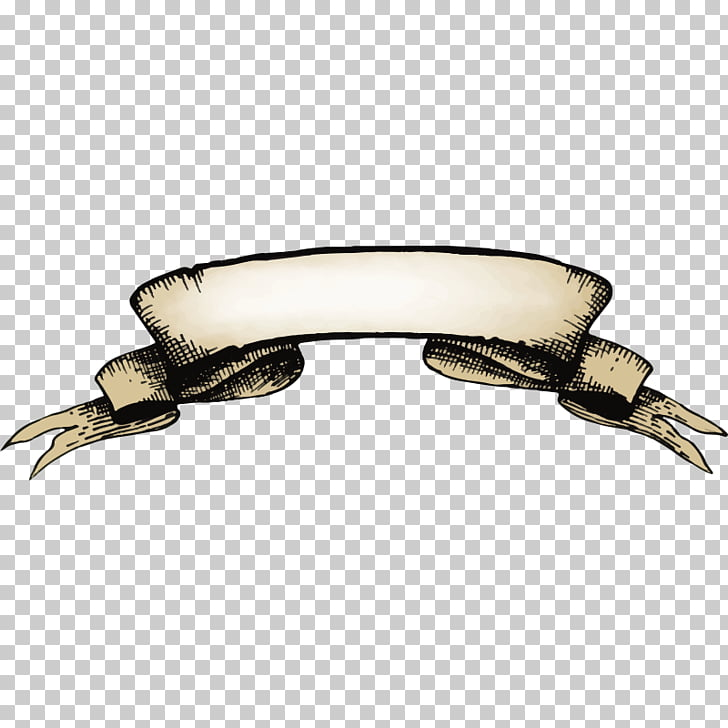
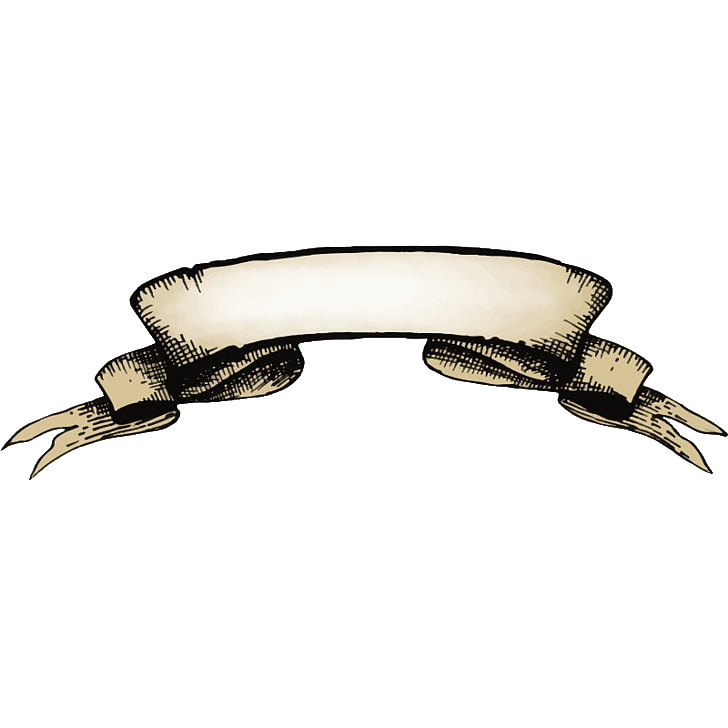
modificaciones en la pagina de rangos

diff --git a/css/style_rangos.css b/css/style_rangos.css
@@ -22,50 +22,11 @@ body{
 
 img{
     background-color: transparent;
-    background-size: 100% 50%;
-    width: 40%;
+    width: 50%;
     display: block;
-    margin-left: 31%;
-    border-radius: 8%;
-}
-
-h1{
-    font-size: 30px;
-    text-align: center;
-    margin-bottom: 20px;
-    margin-top: 20px;
-    line-height: 30px;
-}
-
-p{
-    margin: 30px;
-    margin-left: 15%;
-    margin-right: 10%;
-    border: black 2px solid;
-    text-align: left;
-    padding: 20px;
-    box-shadow: 3px 3px 3px black;
-    margin-bottom: 20px;
-    width: fit-content;
-
-}
-
-.normas{
-    text-decoration: none;
-}
-
-.contenido{
-    overflow: initial;
-    line-height: 30px;
-}
-.lateral{
-    float: left;
-    vertical-align: middle;
-    margin: 5px;
-    margin-right: 50px;
     position: relative;
-    z-index: 1;
-    width: 28%;
+    margin-left: 25%;
+    align-content: center;
 }
 
 nav{
@@ -75,7 +36,8 @@ nav{
     z-index: 10;
     float: left;
     margin-bottom: 40px;
- }
+}
+
  #navegador ul{
      list-style-type: none;
      text-align: center;
@@ -91,26 +53,47 @@ nav ul li{
     padding: 20px;
     text-decoration: none;
 }
- #navegador li{
+
+#navegador li{
      display: inline;
      text-align: center;
      margin: 0 5px 0 0;
- }
+}
 
- #navegador li a {
+#navegador li a {
     padding: 3px 7px 3px 7px;
     color: white;
     background-color: #8a8585;
     border: 1px solid white;
     text-decoration: none;
- }
+}
  
- #navegador li a:hover{
+#navegador li a:hover{
     background-color: #333333;
     color: #ffffff;
- }
+}
 
- .wrapper {
+h1{
+    font-size: 30px;
+    text-align: center;
+    margin-bottom: 20px;
+    margin-top: 20px;
+    line-height: 30px;
+}
+
+p{
+    line-height: 30px;
+}
+
+
+
+
+
+
+
+
+
+  .wrapper {
     min-height: calc(100% -4rem);
     padding: 20px;
   }

diff --git a/html/jerarquias.html b/html/jerarquias.html
@@ -4,8 +4,13 @@
     <meta charset="UTF-8">
     <meta name="viewport" content="width=device-width, initial-scale=1.0">
     <title>[G.A.F] Jerarquias</title>
+    <link rel="stylesheet" href="../css/style_rangos.css">
 </head>
 <body>
+
+    <div class="cabeza">
+        <img src="../image/ornamento.png" alt="Pergamino con Ornamento">
+    </div>
 
     <nav id="navegador">
         <ul class="tabs">
@@ -18,7 +23,7 @@
         </ul>
     </nav>
 
-    <div>
+    <div class="contenido wrapper">
         <div>
             <h1>
                 Rangos y Jerarquias
@@ -97,7 +102,15 @@
     </div>
 
     <footer class="footer">
-        <span>Todos los derechos reservados...</span>
+        <span>
+            Cualquier duda se puede comunicar con nosotros en la sección de "Contactanos"
+        </span>
+
+        <br>
+
+        <span>
+            Todos los derechos reservados...
+        </span>
     </footer>
 </body>
 </html>
